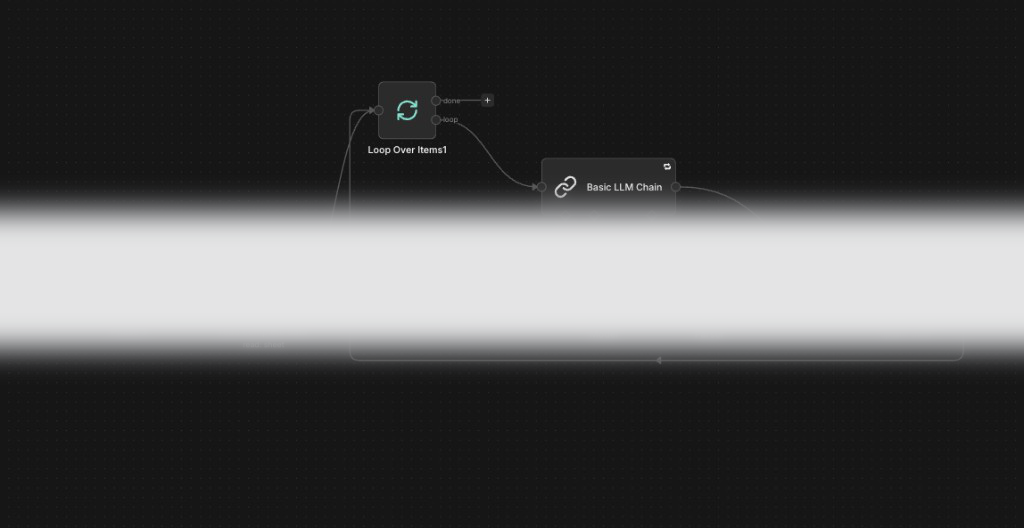
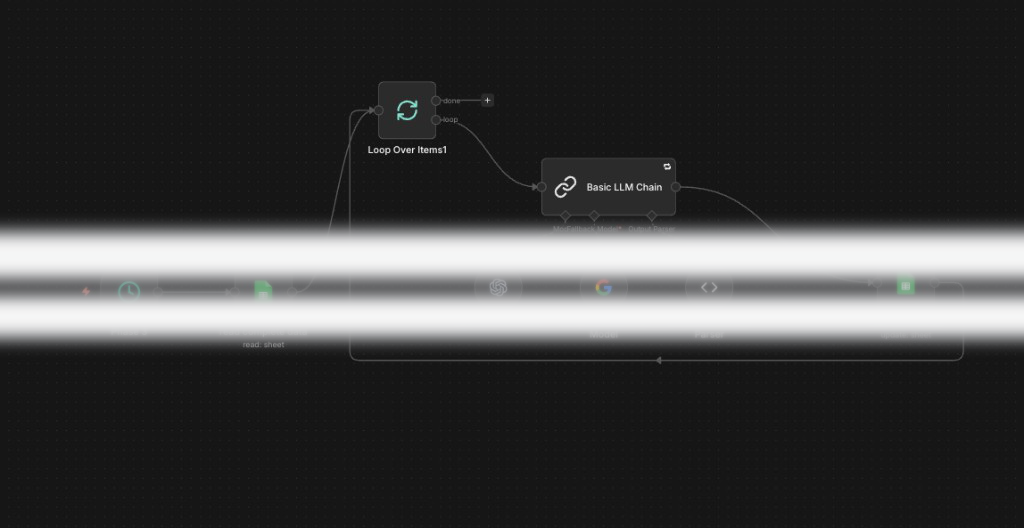
Fix n8n image blur

Changed region(s): [[0.0, 0.3636, 1.0, 0.4545], [0.0, 0.6061, 1.0, 0.697], [0.0, 0.5152, 1.0, 0.5758]]

diff --git a/scripts/mask-workflow-subtext.py b/scripts/mask-workflow-subtext.py
@@ -3,7 +3,7 @@
 Blur horizontal bands where n8n HTTP nodes show method + URL under the title.
 
 Unmasked originals (if you keep them): assets/n8n-workflow-originals/
-Re-run after replacing PNGs in public/home-workflows/:
+Each run copies from assets/n8n-workflow-originals/ first (when present), then applies the mask — avoids stacking blur.
 
   python3 scripts/mask-workflow-subtext.py
 
@@ -12,27 +12,31 @@ Edit MASK_SPECS / BLUR_RADIUS / MASK_FEATHER to taste.
 
 from __future__ import annotations
 
+import shutil
 from pathlib import Path
 
 from PIL import Image, ImageDraw, ImageFilter
 
 ROOT = Path(__file__).resolve().parents[1]
 WF_DIR = ROOT / "public" / "home-workflows"
+ORIGINALS_DIR = ROOT / "assets" / "n8n-workflow-originals"
 
-# Normalized rectangles: (left, top, right, bottom) in 0–1. Small strips = subtitle rows only.
+# Normalized rectangles: (left, top, right, bottom) in 0–1. Tight bands = subtitle row only.
 MASK_SPECS: dict[str, list[tuple[float, float, float, float]]] = {
-    "win-probability.png": [(0.0, 0.44, 1.0, 0.60)],
-    "gear-pipeline.png": [(0.0, 0.46, 1.0, 0.62)],
-    "top-news.png": [(0.0, 0.40, 1.0, 0.56), (0.0, 0.52, 1.0, 0.66)],
+    "win-probability.png": [(0.0, 0.48, 1.0, 0.57)],
+    "gear-pipeline.png": [(0.0, 0.50, 1.0, 0.59)],
+    "top-news.png": [(0.0, 0.44, 1.0, 0.53), (0.0, 0.56, 1.0, 0.64)],
     "site-chat.png": [
-        (0.0, 0.30, 1.0, 0.40),
-        (0.0, 0.48, 1.0, 0.58),
-        (0.0, 0.65, 1.0, 0.76),
+        (0.0, 0.33, 1.0, 0.39),
+        (0.0, 0.51, 1.0, 0.57),
+        (0.0, 0.68, 1.0, 0.74),
     ],
 }
 
-BLUR_RADIUS = 5
-MASK_FEATHER = 14
+# Light touch: strong values read like heavy censorship on thumbnails.
+BLUR_RADIUS = 2
+MASK_FEATHER = 8
+DIM_OVERLAY_ALPHA = 10  # 0 = skip darken; was 28 (too heavy)
 
 
 def build_soft_mask(size: tuple[int, int], rects_norm: list[tuple[float, float, float, float]]) -> Image.Image:
@@ -51,17 +55,20 @@ def mask_image(path: Path, rects_norm: list[tuple[float, float, float, float]]) 
     blurred = im.filter(ImageFilter.GaussianBlur(BLUR_RADIUS))
     mask = build_soft_mask(im.size, rects_norm)
     out = Image.composite(blurred, im, mask)
-    # Slight darken in masked zones so URLs don’t “shine through” after mild blur
-    dim = Image.new("RGBA", im.size, (10, 12, 18, 28))
-    out = Image.composite(dim, out, mask)
+    if DIM_OVERLAY_ALPHA > 0:
+        dim = Image.new("RGBA", im.size, (12, 14, 20, DIM_OVERLAY_ALPHA))
+        out = Image.composite(dim, out, mask)
     out.save(path, optimize=True)
 
 
 def main() -> None:
     for name, rects in MASK_SPECS.items():
         path = WF_DIR / name
-        if not path.is_file():
-            print("skip (missing):", path)
+        original = ORIGINALS_DIR / name
+        if original.is_file():
+            shutil.copy2(original, path)
+        elif not path.is_file():
+            print("skip (missing original and dest):", name)
             continue
         mask_image(path, rects)
         print("masked:", path.relative_to(ROOT))
